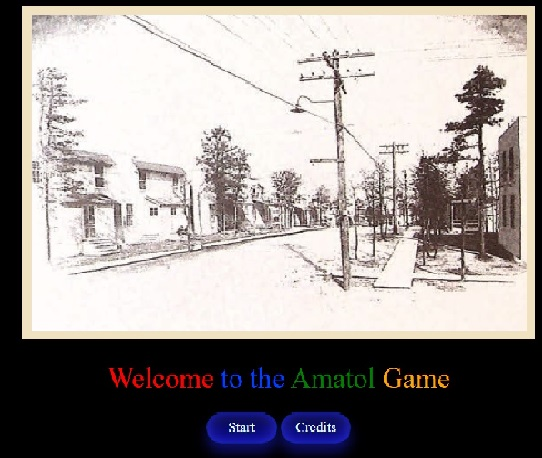
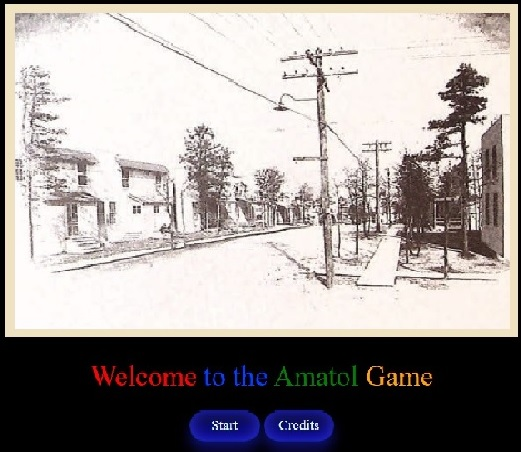
Developed profile page

diff --git a/index.html b/index.html
@@ -8,22 +8,56 @@
     <title>Portfolio for DJ Dinnebeil</title>
 </head>
 <body>
-    <h4>Web Applications</h4>
-    <div id="amatol-game">
-        <a href="https://amatolgame.github.io">The Amatol Game</a>
-        <img alt="Screenshot of Start Screen" id=amatol-image" src="amatolgame_start_screen.jpg">
+<div id="outer-web-applications">
+    <h2>Web Applications</h2>
+    <div id="web-applications">
+        <div id="amatol-game">
+            <a href="https://amatolgame.github.io">
+            <img alt="Screenshot of Start Screen" id="amatol-image" src="amatolgame_start_screen.jpg">
+            </a>
+            <a href="https://amatolgame.github.io">The Amatol Game</a>
+        </div>
+        <div id="brain-films">
+            <a href="https://djdinnebeil.pythonanywhere.com">
+            <img alt="Screenshot of Brain Films add video screen" id="brainfilms-image" src="brainfilms_add_video_screen.jpg">
+            </a>
+            <a href="https://djdinnebeil.pythonanywhere.com">BrainFilms</a>
+        </div>
+        <div id="greenwich-tea-party">
+            <a href="http://greenwich-tea-burning.great-site.net/">
+            <img slt="Screenshot of Greenwich Tea Party welcome screen" id="greenwich-tea-burning-image" src="greenwich_tea_burning_start_screen.jpg">
+            </a>
+            <a href="http://greenwich-tea-burning.great-site.net/">The Greenwich Tea Party</a>
+        </div>
     </div>
-    <div>
-        <a href="https://djdinnebeil.pythonanywhere.com">BrainFilms</a>
-    </div>
+</div>
+<br>
+<br>
+
+<div id="outer-projects">
+    <h2>Projects</h2>
+    <div id="projects">
+
+    <div id="PyTunes">
+        <a href="https://github.com/djdinnebeil/PyTunes">
+            <img id="PyTunes-image" alt="Screenshot of PyTunes" src="PyTunes_screenshot.jpg">
+        </a>
         <a href="https://github.com/djdinnebeil/PyTunes">PyTunes</a>
-        <a href="http://greenwich-tea-burning.great-site.net/">The Greenwich Tea Party</a>
-
-
-    <h4>Projects</h4>
-
-        <a href="https://github.com/djdinnebeil/TheDeclarationist">The Declarationist Text Adventure</a>
+    </div>
+    <div id="TheDeclarationist">
+        <a href="https://github.com/djdinnebeil/TheDeclarationist">
+        <img src="the_declarationist_start_screen.jpg" alt="Start screen of The Declarationist" id="the-declarationist-image">
+        </a>
+        <a href="https://github.com/djdinnebeil/TheDeclarationist">The Declarationist</a>
+    </div>
+    <div id="AssignmentOrganizer">
+        <a href="https://github.com/djdinnebeil/AssignmentOrganizer">
+            <img src="assignment_organizer_screenshot.jpg" alt="Screenshot of Assignment Organizer" id="assignment-organizer-image">
+        </a>
         <a href="https://github.com/djdinnebeil/AssignmentOrganizer">Assignment Organizer</a>
+    </div>
+    </div>
+</div>
 
 </body>
 </html>

diff --git a/styles.css b/styles.css
@@ -6,9 +6,86 @@ ul {
 
 body {
     text-align: center;
+    background-color: darkcyan;
 }
 
+a {
+    padding: 10px;
+    align-self: center;
+}
+#amatol-game {
+    display: flex;
+    flex-direction: column;
+
+}
 #amatol-image {
+    width: 500px;
+    height: 400px;
+    align-self: center;
+}
+
+#brain-films {
+    display: flex;
+    flex-direction: column;
+}
+
+#brainfilms-image {
+    width: 350px;
+    height: 400px;
+    align-self: center;
+}
+
+#greenwich-tea-burning-image {
+    width: 500px;
+    height: 400px;
+    align-self: center;
+}
+
+#greenwich-tea-party {
+    display: flex;
+    flex-direction: column;
+}
+
+#PyTunes-image {
+    width: 900px;
+    height: 400px;
+    align-self: center;
+}
+
+#the-declarationist-image  {
+    width: 400px;
+    height: 400px;
+    align-self: center;
+
+}
+#assignment-organizer-image {
+    width: 600px;
+    height: 400px;
+    align-self: center;
     max-width: 100%;
-    max-height: 100%;
+}
+#PyTunes, #TheDeclarationist, #AssignmentOrganizer{
+    display: flex;
+    flex-direction: column;
+}
+
+#web-applications, #projects {
+    display: flex;
+    justify-content: center;
+
+}
+
+#outer-projects, #outer-web-applications {
+    background-color: lightblue;
+    padding: 10px;
+    border-radius: 25px;
+}
+
+h2 {
+    color: bisque;
+    background-color: darkgoldenrod;
+    max-width: 100%;
+    display: inline-block;
+    padding: 5px;
+    border-style: groove;
 }
